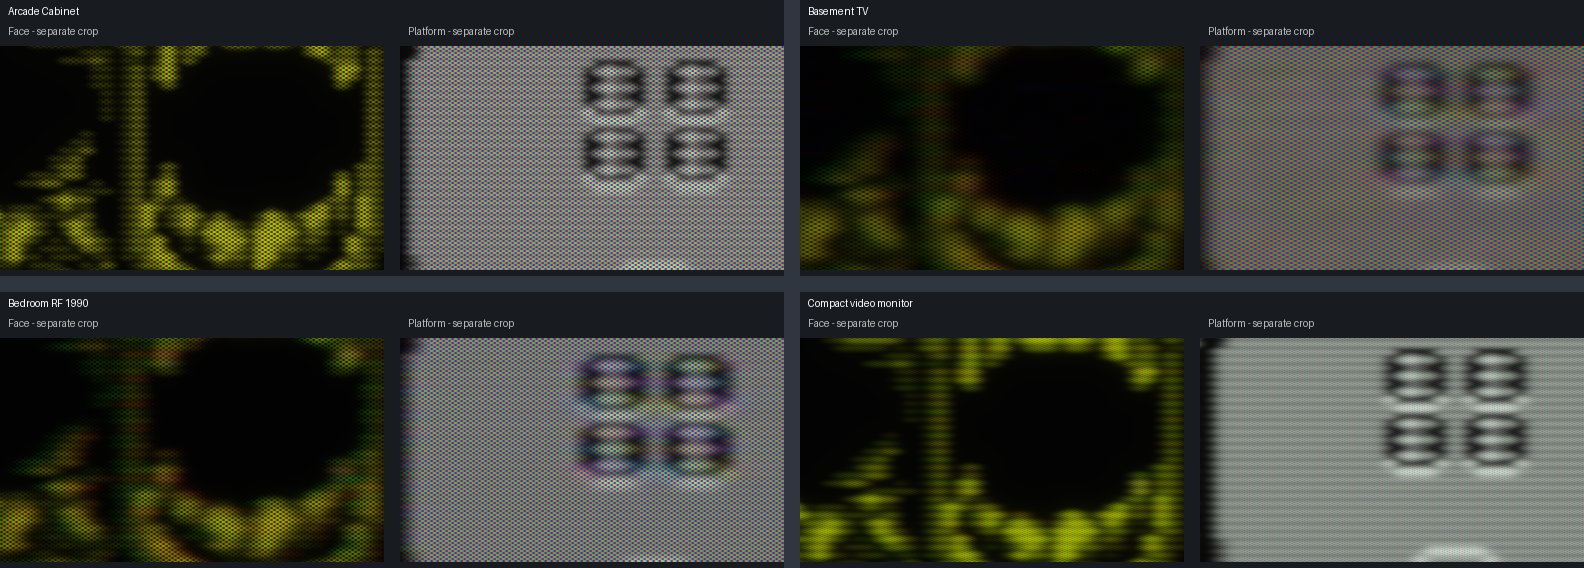
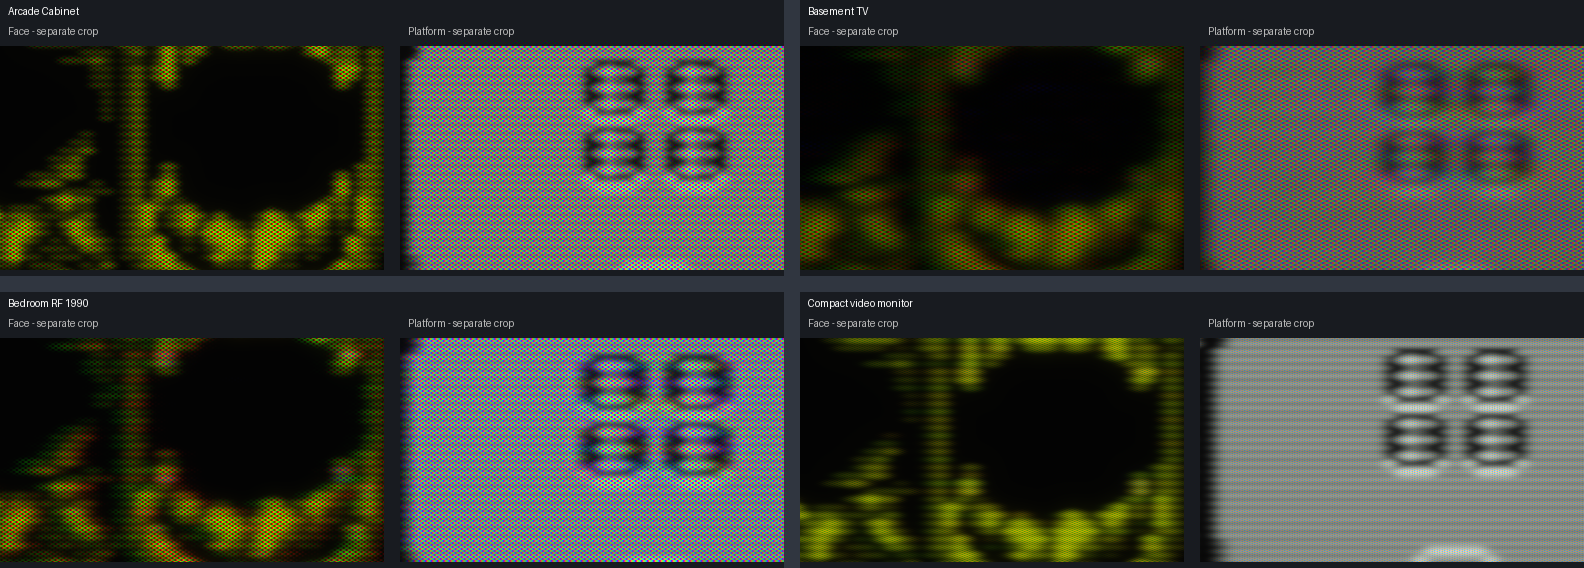
Refine Bedroom RF focus and color while using HDR phosphor headroom

diff --git a/docs/contra-preset-gallery.md b/docs/contra-preset-gallery.md
@@ -2,7 +2,7 @@
 
 For the current presentation, see the [game showcase](nes-visual-showcase.md) and [full-resolution gameplay / beam close-ups](gpu-beam-closeups.md). This page retains controlled diagnostic comparisons at their stated capture resolutions.
 
-Actual output from the GPU renderer at commit `e02fc71`, captured offscreen at **2560×1920**. Every preset receives the same frozen 256×240 Contra boss PPU-code frame, with its own default connection and controls. Host mask alignment is Panel-pixels at 1:1 offscreen scale. This target is larger than the MacBook panel; it is a controlled 4:3 comparison, not a claim about fullscreen panel mapping.
+Actual output from the GPU renderer, captured offscreen at **2560×1920**. The base captures use `e02fc71`; Bedroom RF 1990 was refreshed after its focus/color/HDR tuning, with the same capture conditions. Every preset receives the same frozen 256×240 Contra boss PPU-code frame, with its own default connection and controls. Host mask alignment is Panel-pixels at 1:1 offscreen scale. This target is larger than the MacBook panel; it is a controlled 4:3 comparison, not a claim about fullscreen panel mapping.
 
 Frames 60 and 61 are averaged in **linear light** before sRGB conversion, at a common 0.7 exposure to preserve more highlight detail in SDR. Full-resolution images are lossless WebP. Overview reductions are also made in linear light. The two-frame still average is a review exposure, not an extra emulator filter. These PNG/WebP previews do not reproduce live HDR headroom.
 
@@ -30,7 +30,7 @@ Click a preset name for the complete **2560×1920** render. View native crops at
 |---|---|
 | [Arcade Cabinet](images/contra-gallery/arcade_cabinet.webp) · rgb | Clean source and broad beam distinguish it from the fine RGB monitor. Coarse delta dots dominate at close viewing; this is a generic arcade look, not a PlayChoice palette-ROM model. |
 | [Basement TV](images/contra-gallery/basement_tv.webp) · rf | The darkest, muddiest RF image. Useful as a damaged-set extreme, but not a good default: face detail and highlight separation suffer. |
-| [Bedroom RF 1990](images/contra-gallery/bedroom_rf_1990.webp) · rf | A more usable RF television than Basement: readable face and platform, with colour bleed and a coarse shadow mask. Overlaps the other household profiles. |
+| [Bedroom RF 1990](images/contra-gallery/bedroom_rf_1990.webp) · rf | Clearer luminance detail with soft RF colour, cool highlights and the original 410-triad shadow mask. Gain 1.25 uses available HDR headroom; this SDR gallery does not reproduce its live highlight luminance. |
 | [Compact video monitor](images/contra-gallery/commodore_1702.webp) · svideo | Clean Y/C edges with a softer desktop-monitor beam. More restrained whites than the warm personal variant; generic rather than Commodore-calibrated. |
 
 ![Native-pixel face and platform details](images/contra-gallery/native-crops-1.png)

diff --git a/docs/gpu-preset-audit.md b/docs/gpu-preset-audit.md
@@ -7,13 +7,21 @@ The curated, visually polished group is **Sony PVM-14L2, JVC D-Series, Toshiba 1
 
 The library contains 20 profiles. Sony, JVC and Toshiba have published hardware references; Stas's Favourite is a generic worn consumer set. The other profiles remain compatibility and exploratory presets. Beam widths, phosphor spectra, regulation and individual tube condition are estimates, not measurements of 20 televisions.
 
+Bedroom RF 1990 retains its 410-triad shadow mask and RF connection. Its
+3.2 MHz luminance / 0.45 MHz chroma bandwidths preserve clearer edges with soft
+color transitions. The nominal 7800 K white point, small blue cutoff and decoder
+gains provide cooler highlights with mild gray-tracking error. HDR gain 1.25
+feeds the headroom-aware output shoulder; it does not request unavailable panel
+brightness. These settings are a generic consumer interpretation, not calibration
+to a specific tube or camera photograph.
+
 ## Physical identities
 
 | Preset | Source | Face; triads across | Dark → white FWHM, lines | Horizontal sigma, samples | Regulation / condition |
 |---|---|---|---|---|---|
 | Arcade Cabinet | rgb | shadow; 440 | 0.55 → 1.18 | 3 | size response 0.035; rail load 0.025 |
 | Basement TV | rf | shadow; 340 | 0.78 → 1.62 | 5.5 | size response 0.07; rail load 0.1 |
-| Bedroom RF 1990 | rf | shadow; 410 | 0.62 → 1.32 | 4 | size response 0.12; rail load 0.075 |
+| Bedroom RF 1990 | rf | shadow; 410 | 0.54 → 1.14 | 2.8 | size response 0.12; rail load 0.075 |
 | Compact video monitor | svideo | shadow; 520 | 0.54 → 1.02 | 4.2 | regulated |
 | Dying CRT | composite | shadow; 350 | 0.76 → 1.68 | 6 | size response 0.14; rail load 0.12 |
 | Famicom Kitchen | rf | shadow; 380 | 0.6 → 1.3 | 3.5 | size response 0.1; rail load 0.06 |
